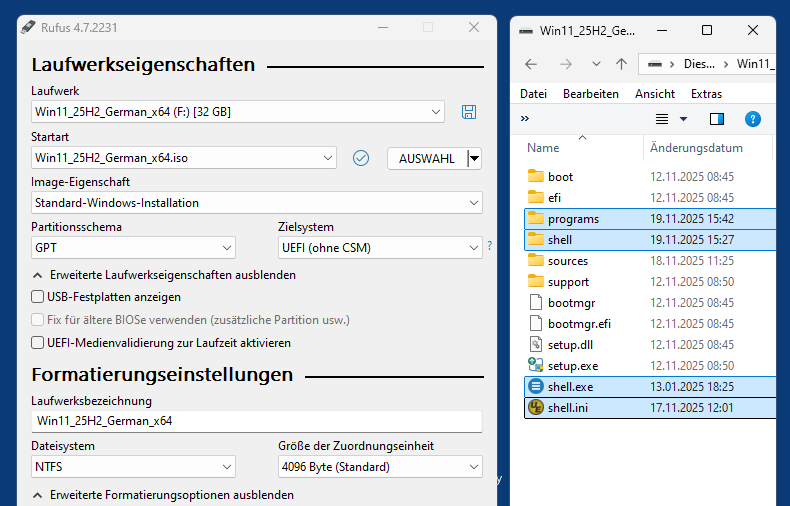
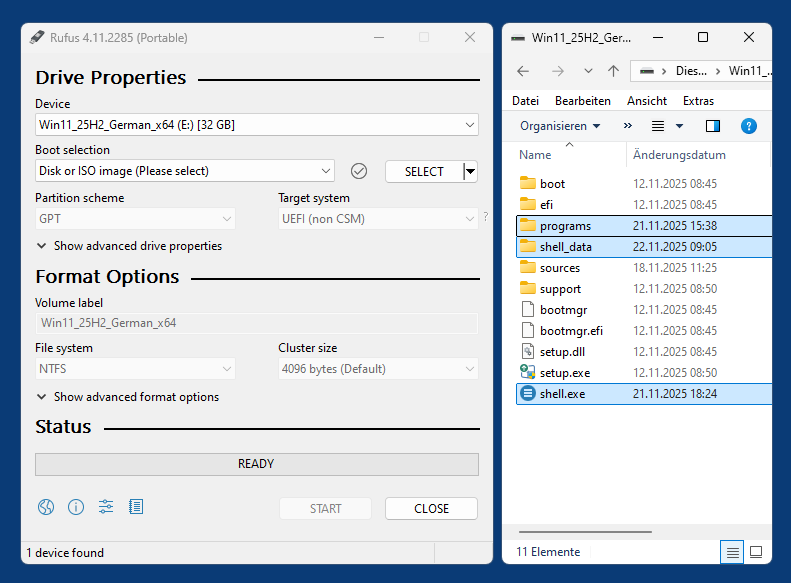
moved shell_data to root dir

Changed region(s): [[0.0, 0.0296, 1.0, 1.0]]

diff --git a/src/const.py b/src/const.py
@@ -16,7 +16,7 @@ IS_FROZEN = getattr(sys, 'frozen', False) and hasattr(sys, '_MEIPASS')
 
 if IS_FROZEN:
     APP_DIR = os.path.dirname(os.path.abspath(__file__))
-    PROGS_DIR = os.path.realpath(os.path.join(APP_DIR, '..', '..', 'programs'))
+    PROGS_DIR = os.path.realpath(os.path.join(APP_DIR, '..', 'programs'))
 else:
     APP_DIR = os.path.realpath(os.path.join(os.path.dirname(__file__), '..'))
     PROGS_DIR = os.path.realpath(os.path.join(APP_DIR, 'programs'))

diff --git a/src/winapp/const_c.py b/src/winapp/const_c.py
@@ -52,14 +52,10 @@ EVENT_SYSTEM_FOREGROUND = 3
 EVENT_SYSTEM_MINIMIZEEND = 23
 EVENT_SYSTEM_MINIMIZESTART = 22
 FALSE = 0
-FALT = 16
-FCONTROL = 8
 FF_DONTCARE = 0
-FSHIFT = 4
 FW_DONTCARE = 0
 FW_MEDIUM = 500
 GCLP_HICON = -14
-GCL_HBRBACKGROUND = -10
 GWL_EXSTYLE = -20
 GWL_STYLE = -16
 GWL_WNDPROC = -4
@@ -342,6 +338,7 @@ WM_GETICON = 127
 WM_MENUSELECT = 287
 WM_NOTIFY = 78
 WM_NULL = 0
+WM_QUIT = 18
 WM_SETFONT = 48
 WM_SETICON = 128
 WM_SIZE = 5

diff --git a/src/_update_icons.py b/src/_update_icons.py
@@ -167,9 +167,12 @@ def load_quick(scale):
         f.write(bytes(bmi))
         f.write(bits)
 
-
-if __name__ == '__main__':
+def update_icons():
     for scale in range(1, 4):
         print(f'Creating icons for scale level {scale}...')
         load_menu(scale)
         load_quick(scale)
+
+
+if __name__ == '__main__':
+    update_icons()

diff --git a/src/main.py b/src/main.py
@@ -26,6 +26,11 @@ from desktop import Desktop
 from resources import *
 from utils import *
 
+if '/update-icons' in sys.argv:
+    from _update_icons import update_icons
+    update_icons()
+    sys.exit()
+
 ########################################
 # CONFIG
 ########################################

diff --git a/README.md b/README.md
@@ -2,7 +2,7 @@
 
 WinSetupShell is a simple desktop shell (start menu, quick launch toolbar, taskbar, system tray) for [Windows PE](https://en.wikipedia.org/wiki/Windows_Preinstallation_Environment) x64 written in Python that can be used to enhance a regular Windows 11 (and possibly also Windows 10, not tested) setup USB flash drive with a [live USB system](https://en.wikipedia.org/wiki/Live_USB) that can optionally be used for system repair tasks etc., using a comfortable desktop GUI instead of only hacking commands into a CMD prompt. It provides network support (via [PENetwork](https://www.penetworkmanager.de/)) and a web browser ([Firefox](https://www.firefox.com/)), so you can search for documentation or download stuff right from the live USB system, no other PC needed.
 
-Windows PE is a reduced Windows OS that provides the basic WinAPI, but no Explorer file manager, and no Explorer-based desktop, therefor such a custom shell/desktop is needed. WinSetupShell uses a customized version of [Explorer++](https://github.com/derceg/explorerplusplus) as file manager.
+WinSetupShell uses the original unaltered Windows PE that comes with the Windows setup, there is no "baking" involved. Windows PE is a reduced Windows OS that provides the basic WinAPI, but no Explorer file manager, and no Explorer-based desktop, therefor such a custom shell/desktop is needed. As file manager a customized version of [Explorer++](https://github.com/derceg/explorerplusplus) is used.
 
 The original Windows setup stuff isn't altered in any way, so the USB flash drive remains a perfectly valid Windows setup media.
 
@@ -19,10 +19,10 @@ WinSetupShell is a simple and easily installed alternative for applications like
 ## Setup
 
 - Use Rufus to download and install a Windows 11 setup .iso of the flavor and language of your choice (I used `Win11_25H2_German_x64.iso`) on the USB flash drive, turning it into a regular Windows 11 setup media. Or let Rufus use a local .iso file that you downloaded before.
-- Download the lastest `WinSetupShell` release .7z, unpack it and copy its contents (2 folders and 2 files) to the root directory of the USB flash drive.
+- Download the lastest `WinSetupShell` release .7z, unpack it and copy its contents (`shell.exe` and the 2 folders `shell_data` and `programs`) to the root directory of the USB flash drive.
 - Done.
 
-*Windows 11 setup USB flash drive created with Rufus, with the 4 additional WinSetupShell items copied to it*  
+*Windows 11 setup USB flash drive created with Rufus, with the 3 additional WinSetupShell items copied to it*  
 ![](screenshots/rufus.png)
 
 ## Usage
@@ -41,7 +41,7 @@ WinSetupShell is a simple and easily installed alternative for applications like
 
 Network isn't started by default, so before you can use e.g. Firefox or FileZilla, you first have to initialize it, either by clicking on the network icon in the system tray or selecting `PENetwork` from the start menu, both do the same thing, they start `PENetwork`. If you are connected via Ethernet cable and DHCP is available, nothing else is needed, you should now be online.
 
-If you want to start network by default, copy the LNK file `shell\_internal\app_data\start_menu\Programs\PENetwork` into folder `shell\_internal\startup`.
+If you want to start network by default, copy the LNK file `shell\shell_data\app_data\start_menu\Programs\PENetwork` into folder `shell\shell_data\startup`.
 
 ## Included applications (Freeware/Shareware/Trialware)
 - 7-Zip
@@ -95,6 +95,10 @@ If you want to start network by default, copy the LNK file `shell\_internal\app_
 
 - There might be issues with some HiDPI displays.
 
-## ToDos
-- Explain how to add other (compatible) portable applications
-- Explain how to customize start menu and quick launch toolbar links
+## Customization
+
+Additional compatible (64-bit, portable and WinAPI only) applications can be added to folder `programs` on the USB flash drive. Links to them can then be added to folder `shell_data\app_data\start_menu`. But you first have to create an environment variable (in user space) called `PROGRAMS` that contains the absolute path to folder `programs` on the USB flash drive, so e.g. `F:\programs`. The new .LNK files inside folder `start_menu` then have to be edited manually (Explorer -> properties), the absolute path to `programs` has to be replaced with this environment variable `%PROGRAMS%`, both in the link's target and working directory field.
+
+To add or remove applications to/from the quick launch toolbar, edit text file `shell_data\app_data\quick\quick.pson` in any text editor, its JSON-like format is self-explanatory.
+
+Whenever you changed something in the start menu or quick launch toolbar, you have to run `shell.exe /update-icons` (e.g. in a CMD prompt) to update the pre-cached icons on the USB flash drive.
